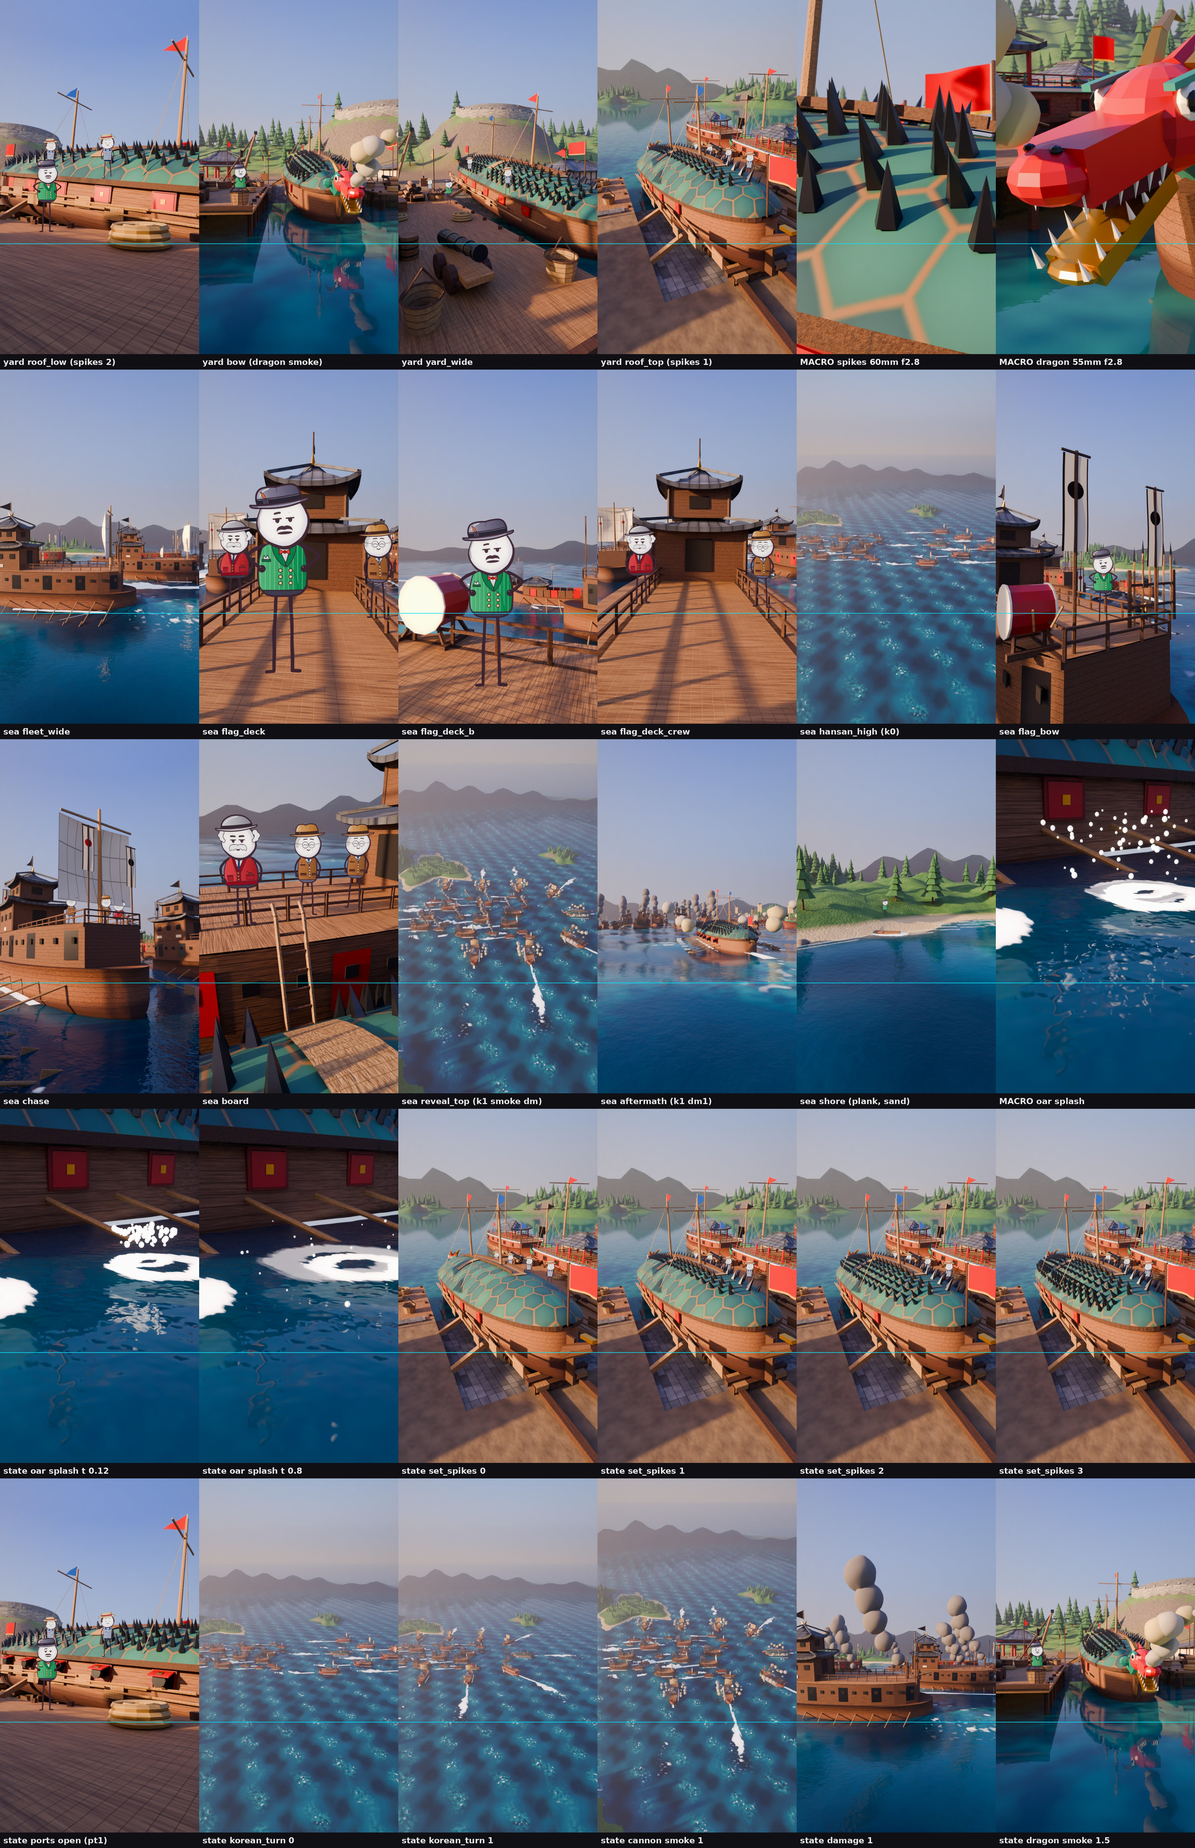
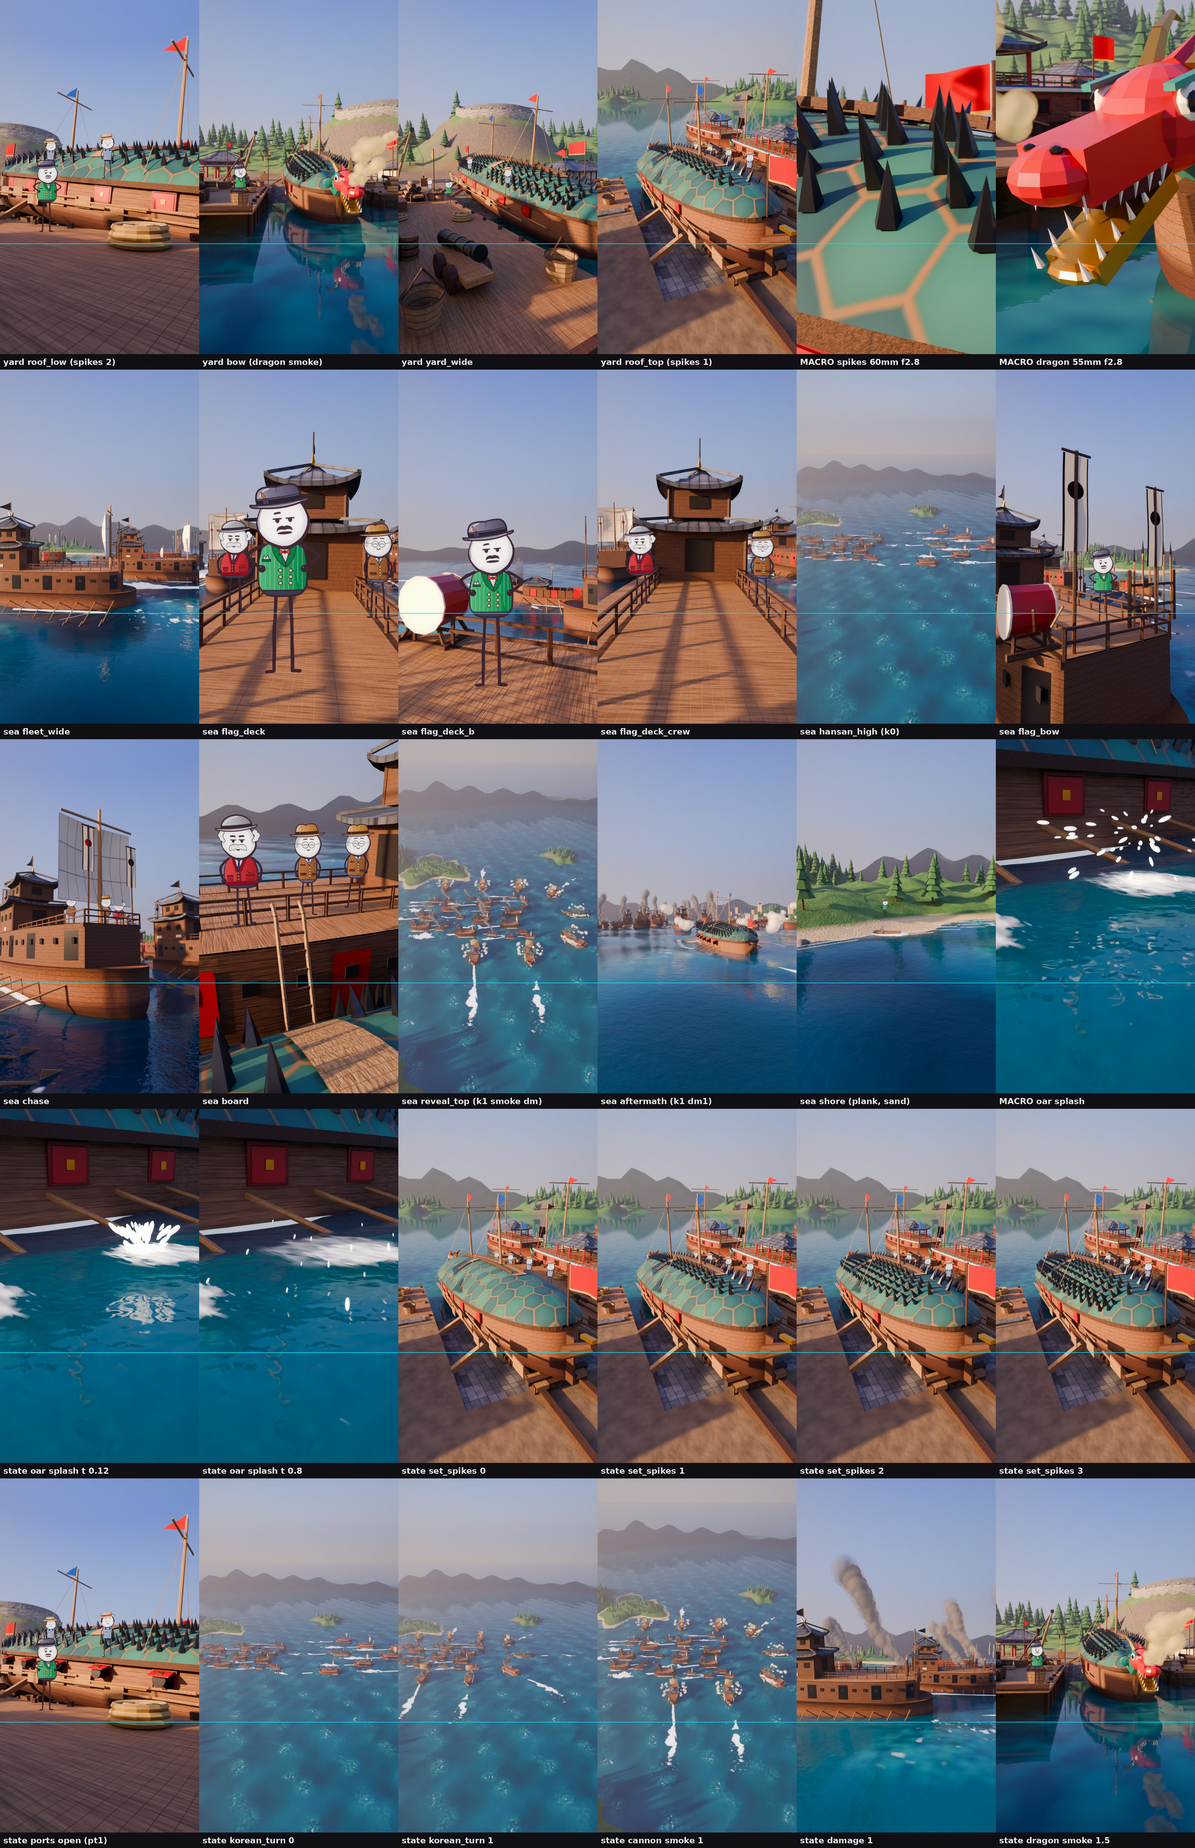
film24: set3d24 accepted (round 3: water without tiling, soft smoke, oar spray)
Claude-Session: https://claude.ai/code/session_017iwyCuV9S7aFVU4rtAyyJm

diff --git a/film/v3/set3d24/joseon.py b/film/v3/set3d24/joseon.py
@@ -126,9 +126,17 @@ def flagmat(key):
     return mat('J_f_' + key, f)
 
 def smoke_mat(name, hexcol, k=1.0):
-    """Cartoon smoke billow: matte, slightly translucent-looking soft white-grey with a warm lit side (principled, rough 1)."""
-    def f(b): b.princ(hexl(hexcol), 1.0, 0.0, None, **{'Subsurface Weight': 0.15})
+    """Soft cartoon smoke: matte, partly transparent, edges fade out with the facing ratio (Layer Weight), a little self light so it never turns muddy. Overlapping lumps merge into one billow."""
+    def f(b):
+        lw = b.n('ShaderNodeLayerWeight'); lw.inputs['Blend'].default_value = 0.5; a = b.math('MULTIPLY', b.math('POWER', b.math('SUBTRACT', 1.0, lw.outputs['Facing']), 1.4), 0.62, clamp=True)
+        b.princ(hexl(hexcol), 1.0, 0.0, None, Alpha=a, **{'Emission Color': (*hexl(hexcol), 1.0), 'Emission Strength': 0.22})
     return mat('J_s_' + name, f)
+
+def cluster(mb, r, m, seed, n=4, spread=0.55):
+    """A billow = n overlapping lumps (merged soft puff)."""
+    rs = rnd(seed)
+    for k in range(n):
+        o = Vector((rs.uniform(-1, 1), rs.uniform(-1, 1), rs.uniform(-0.6, 0.8))) * r * spread; lump(mb, o, r * rs.uniform(0.55, 0.85), m, seed * 7 + k, seg=8, rings=5, rough=0.18)
 
 def tx_sync(): S['tx'] = JX.ensure(verbose=False)
 
@@ -295,7 +303,7 @@ def make_camera(setup, name='cam', scene=None):
     scene.camera = ob; return ob
 
 # ============================================================================= swell (shared by the ocean mesh and the ship / plank drivers)
-SWELL = [(0.34, 34.0, 20.0, 0.9), (0.20, 21.0, 75.0, 1.2), (0.11, 13.0, -35.0, 1.6)]       # A, wavelength, direction deg, angular speed
+SWELL = [(0.30, 41.0, 20.0, 0.85), (0.17, 27.0, 75.0, 1.1), (0.11, 17.3, -35.0, 1.5), (0.07, 11.7, 128.0, 1.8), (0.05, 9.9, -95.0, 2.1)]       # A, wavelength, direction deg, angular speed
 CHOP = [(0.03, 7.3, 52.0, 2.2), (0.02, 4.9, -67.0, 2.8)]
 def swell_z(x, y, t):
     z = 0.0
@@ -304,7 +312,15 @@ def swell_z(x, y, t):
 def swell_expr(xs='x', ys='y', amp=1.0):
     parts = []
     for A, lam, ang, spd in SWELL:
-        k = 2 * math.pi / lam; parts.append('%.4f*sin(%.5f*%s+%.5f*%s-%.4f*frame/%d)' % (A * amp, k * math.cos(math.radians(ang)), xs, k * math.sin(math.radians(ang)), ys, spd, FPS))
+        k = 2 * math.pi / lam; parts.append('%.3f*sin(%.5f*%s+%.5f*%s-%.5f*frame)' % (A * amp, k * math.cos(math.radians(ang)), xs, k * math.sin(math.radians(ang)), ys, spd / FPS))
+    e = '+'.join(parts); assert len(e) < 235, len(e)
+    return e
+
+def swell_expr_at(x0, y0, amp=1.0):
+    """The swell at a fixed world point (x0, y0): a function of the frame only (short driver expression)."""
+    parts = []
+    for A, lam, ang, spd in SWELL:
+        k = 2 * math.pi / lam; parts.append('%.3f*sin(%.4f-%.5f*frame)' % (A * amp, k * (x0 * math.cos(math.radians(ang)) + y0 * math.sin(math.radians(ang))), spd / FPS))
     return '+'.join(parts)
 
 def drive(ob, path, idx, expr, vars_):
@@ -531,9 +547,9 @@ def build_splash(sh, ox, oy, length_out=6.4):
         mb.oface([Vector((-rr, -rr, 0)), Vector((rr, -rr, 0)), Vector((rr, rr, 0)), Vector((-rr, rr, 0))], mt, [(0, 0), (1, 0), (1, 1), (0, 1)], Vector((0, 0, 1)))
         o = mk(mb, 'splash_ring_%d' % k, sh['root'], shadow=False); o.location = (c.x, c.y, 0.2); o.hide_render = True
         drive_at(o, sh['root'], c, 0.26); S['splash']['rings'].append(dict(ob=o, mat=mt, delay=0.0 if k == 0 else 0.28))
-    for k in range(70):
-        mb = MB(); lump(mb, (0, 0, 0), 1.0, M_['drop'], 3000 + k, seg=8, rings=5, rough=0.05); o = mk(mb, 'drop_%d' % k, sh['root'], shadow=False); smooth_round(o, 1); o.hide_render = True
-        a = r.uniform(0, 6.283); sp = r.uniform(0.15, 1.0); S['splash']['drops'].append(dict(ob=o, v=Vector((math.cos(a) * sp, math.sin(a) * sp, r.uniform(2.2, 3.7))), r=r.uniform(0.014, 0.042)))
+    for k in range(46):
+        mb = MB(); ell(mb, (0, 0, 0), 3.4, 1.0, 1.0, M_['drop'], 8, 5); o = mk(mb, 'drop_%d' % k, sh['root'], shadow=False, smooth=True); o.hide_render = True
+        a = r.uniform(0, 6.283); sp = r.uniform(0.15, 1.0); S['splash']['drops'].append(dict(ob=o, v=Vector((math.cos(a) * sp, math.sin(a) * sp, r.uniform(2.2, 3.7))), r=r.uniform(0.012, 0.03)))
 
 def set_oar_splash(t, frame=None):
     """Splash at the dipping blade of the hero oar (macro_oar): t 0 = nothing .. 0..1 = the splash growing and fading (map t = (frame - f0) / 15 for a 15-frame splash). Droplets fly on arcs and shrink, two foam rings
@@ -543,8 +559,9 @@ def set_oar_splash(t, frame=None):
     t = float(t); c = K['c']; vis = 0.0 < t < 1.0
     for d in K['drops']:
         u = max(0.0, min(1.0, t)); p = Vector((c.x + d['v'].x * u * 3.0, c.y + d['v'].y * u * 3.0, 0.2 + d['v'].z * u * 1.15 - 4.6 * u * u)); sc = d['r'] * (1.0 - u) ** 0.4
+        vel = Vector((d['v'].x * 3.0, d['v'].y * 3.0, d['v'].z * 1.15 - 9.2 * u)); d['ob'].rotation_euler = vel.to_track_quat('X', 'Z').to_euler()          # streak along the arc
         d['ob'].location = p; d['ob'].scale = (sc, sc, sc); show(d['ob'], vis and p.z > 0.0, frame)
-        if frame is not None: key_attr(d['ob'], 'location', frame, 'LINEAR'); key_attr(d['ob'], 'scale', frame, 'LINEAR')
+        if frame is not None: key_attr(d['ob'], 'location', frame, 'LINEAR'); key_attr(d['ob'], 'scale', frame, 'LINEAR'); key_attr(d['ob'], 'rotation_euler', frame, 'LINEAR')
     for rg in K['rings']:
         u = max(0.0, min(1.0, (t - rg['delay']) / (1.0 - rg['delay']))); sc = 0.3 + 1.05 * u; rg['ob'].scale = (sc, sc, 1.0); op = (1.0 - u) ** 1.1 if 0.0 < u < 1.0 else 0.0
         nd = rg['mat'].node_tree.nodes['op']; nd.outputs[0].default_value = op; show(rg['ob'], op > 0.001, frame)
@@ -579,7 +596,7 @@ def make_materials():
     M_['dancheong'] = imgmat('dancheong', 'dancheong', 0.45, rough=0.55, bumpk=0.1)
     M_['plaster'] = flat('plaster', '#d9ceb4', 0.9); M_['basket'] = imgmat('basket', 'matting_d', 0.5, rough=0.95, bumpk=0.5)
     M_['drop'] = flat('drop', '#eef6f6', 0.25, 0.0, **{'Emission Color': (0.9, 0.95, 0.97, 1.0), 'Emission Strength': 0.9}); M_['earth'] = flat('earth', '#8a7456', 0.95); M_['spray'] = flat('spray', '#f3f7f6', 0.9)
-    M_['smoke_g'] = smoke_mat('g', '#a8a499'); M_['smoke_d'] = smoke_mat('d', '#74716f'); M_['smoke_y'] = smoke_mat('y', '#b6ab80')
+    M_['smoke_g'] = smoke_mat('g', '#cfccc3'); M_['smoke_d'] = smoke_mat('d', '#6f6c6b'); M_['smoke_y'] = smoke_mat('y', '#b9ad7a')
     M_['flash'] = emit('flash', '#ffcf6a', 40.0); M_['green_p'] = flat('green_p', '#2a7a58', 0.5); M_['blue_p'] = flat('blue_p', '#2a56a8', 0.5)
     for nm, k in (('wake', 'foam_wake'), ('bow', 'foam_bow'), ('ring', 'foam_ring'), ('surf', 'foam_surf')):
         def f(b, k=k):
@@ -599,10 +616,10 @@ def water_mat(name, calm=False):
         col = b.mix(b.rng(patch, 0.35, 0.65), hexl(deep), hexl(mid))
         crest = b.rng(z.outputs['Z'], 0.12 if not calm else 9, 0.45, 0, 1); col = b.mix(b.math('MULTIPLY', crest, b.rng(b.noise(0.5, 1.0, 0.5, c), 0.35, 0.7), clamp=True), col, hexl(shl))
         if not calm:
-            bignz = b.rng(b.noise(0.011, 2.0, 0.5, c), 0.3, 0.7, 0.45, 1.0); col = b.mix(b.math('MULTIPLY', b.rng(z.outputs['Z'], 0.0, -0.42, 0.0, 0.85), bignz), col, hexl('#021d33'))
+            bignz = b.rng(b.noise(0.011, 2.0, 0.5, c), 0.3, 0.7, 0.45, 1.0); far = b.rng(b.n('ShaderNodeCameraData').outputs['View Distance'], 80.0, 260.0, 1.0, 0.3, smooth=True); col = b.mix(b.math('MULTIPLY', b.math('MULTIPLY', b.rng(z.outputs['Z'], 0.0, -0.42, 0.0, 0.85), bignz), far), col, hexl('#021d33'))
             col = b.mix(b.rng(b.noise(0.0035, 2.0, 0.5, c), 0.35, 0.65, 0.0, 0.35), col, hexl('#0d6c74'))
         if not calm:
-            sp = b.rng(b.noise(0.6, 0.0, 0.5, c), 0.68, 0.76); wc = b.math('MULTIPLY', b.rng(z.outputs['Z'], 0.34, 0.50), sp, clamp=True); col = b.mix(wc, col, (0.93, 0.97, 0.96, 1))
+            sp = b.rng(b.noise(0.6, 0.0, 0.5, c), 0.68, 0.76); wc = b.math('MULTIPLY', b.math('MULTIPLY', b.rng(z.outputs['Z'], 0.34, 0.50), sp), b.rng(b.noise(0.018, 2.0, 0.5, c), 0.42, 0.6), clamp=True); col = b.mix(wc, col, (0.93, 0.97, 0.96, 1))
         n1 = b.noise(1.3 if not calm else 0.9, 2.0, 0.5, c); n2 = b.noise(5.0, 1.0, 0.5, c); h = b.math('ADD', n1, b.math('MULTIPLY', n2, 0.35))
         st = 0.42 if not calm else 0.06
         if not calm:
@@ -1303,7 +1320,7 @@ def beach_extras():
                 r = shore(a); q.append(Vector((cx + (r + d0) * math.cos(a), cy + (r + d0) * math.sin(a), 0.0)) - mid); q.append(Vector((cx + (r + d1) * math.cos(a), cy + (r + d1) * math.sin(a), 0.0)) - mid)
             mb.oface([q[0], q[2], q[3], q[1]], M_['surf_f'], [(0, 0), (1, 0), (1, 1), (0, 1)], Vector((0, 0, 1)))
         o = mk(mb, 'surf_%d' % i, shadow=False); o.location = (mid.x, mid.y, 0.12)
-        drive(o, 'location', 2, '0.12+' + swell_expr('(%f)' % mid.x, '(%f)' % mid.y, 0.8), {})
+        drive(o, 'location', 2, '0.12+' + swell_expr_at(mid.x, mid.y, 0.8), {})
     S['shore_a'] = -math.pi / 2
 
 def build_plank():
@@ -1316,7 +1333,7 @@ def build_plank():
     sl = (h(px, py - 1.0) - h(px, py + 1.0)) / 2.0                       # terrain slope along y (toward the sea it falls)
     o = mk(mb, 'plank', shadow=True); o.location = (px, py, z0 + 0.12); o.rotation_euler = (math.atan(sl) * -1.0, 0, math.radians(8)); S['plank'] = o; S['plank_z'] = z0 + 0.12 + 0.11
     mb2 = MB(); mb2.oface([Vector((-4.6, -2.4, 0)), Vector((4.6, -2.4, 0)), Vector((4.6, 2.4, 0)), Vector((-4.6, 2.4, 0))], M_['ring_f'], [(0, 0), (1, 0), (1, 1), (0, 1)], Vector((0, 0, 1)))
-    ro = mk(mb2, 'plank_ring', shadow=False); ro.location = (px, py, 0.12); drive(ro, 'location', 2, '0.14+' + swell_expr('(%f)' % px, '(%f)' % py, 0.8), {})
+    ro = mk(mb2, 'plank_ring', shadow=False); ro.location = (px, py, 0.12); drive(ro, 'location', 2, '0.14+' + swell_expr_at(px, py, 0.8), {})
 
 def _sea_marks():
     mk_ = S['marks']; par = S['parented'] = {}; shs = S['ships']
@@ -1345,8 +1362,10 @@ def build_damage_kit():
         rod(mb, p0, p1, 0.2, M_['wood_l'], seg=6, r1=0.16)
         stump = mk(mb, '%s_stump' % sh['name'], ride); stump.hide_render = True
         mbs = MB(); ph = rs.uniform(0, 6); cx_ = mx - 1.5
-        for k, (zz, rr_) in enumerate(((zb + 3.0, 1.1), (zb + 5.8, 1.6), (zb + 9.0, 2.1), (zb + 12.4, 2.5), (zb + 16.0, 2.7))): lump(mbs, (cx_ - 1.4 * k + 0.6 * math.sin(ph + k), 0.5 * math.sin(ph + 2 * k), zz), rr_, M_['smoke_d'], 300 + i * 9 + k, seg=10, rings=6, rough=0.18)
-        smk = mk(mbs, '%s_dsmoke' % sh['name'], ride, shadow=True); smooth_round(smk, 1); smk.hide_render = True
+        for k in range(10):
+            zz = zb + 2.5 + 1.55 * k; rr_ = 0.9 + 0.2 * k; cluster(mbs, rr_, M_['smoke_d'], 300 + i * 11 + k, 3, 0.55) if False else lump(mbs, (cx_ - 0.9 * k + 0.7 * math.sin(ph + 0.7 * k), 0.55 * math.sin(ph + 1.3 * k), zz), rr_, M_['smoke_d'], 300 + i * 11 + k, seg=9, rings=5, rough=0.2)
+            lump(mbs, (cx_ - 0.9 * k + 0.7 * math.sin(ph + 0.7 * k) + 0.5, 0.55 * math.sin(ph + 1.3 * k) + 0.45, zz - 0.5), rr_ * 0.75, M_['smoke_d'], 800 + i * 11 + k, seg=9, rings=5, rough=0.2)
+        smk = mk(mbs, '%s_dsmoke' % sh['name'], ride, shadow=False); smooth_round(smk, 1); smk.hide_render = True
         hide = [o for o in (bpy.data.objects.get(sh['name'] + '_mast'), bpy.data.objects.get(sh['name'] + '_sail')) if o]
         S['dmg'].append(dict(sh=sh, thr=thr, deg=(3.0 + 5.5 * rs.random()) * (1 if i % 2 else -1), stump=stump, smoke=smk, hide=hide))
 
@@ -1357,7 +1376,7 @@ def build_cannon_kit():
         for gi, g in enumerate(sh['guns']):
             puffs = []
             for k in range(2):
-                mb = MB(); lump(mb, (0, 0, 0), 1.0, M_['smoke_g'] if (gi + k) % 3 else M_['smoke_y'], 900 + gi * 3 + k, seg=9, rings=6, rough=0.2); o = mk(mb, 'puff_%s_%d_%d' % (sh['name'], gi, k), sh['ride'], shadow=True); smooth_round(o, 1); o.hide_render = True; puffs.append(o)
+                mb = MB(); cluster(mb, 1.0, M_['smoke_g'], 900 + gi * 3 + k, 4, 0.6); o = mk(mb, 'puff_%s_%d_%d' % (sh['name'], gi, k), sh['ride'], shadow=False); smooth_round(o, 1); o.hide_render = True; puffs.append(o)
             mb = MB(); lump(mb, (0, 0, 0), 0.7, M_['flash'], 1200 + gi, seg=7, rings=5, rough=0.35); fl = mk(mb, 'flash_%s_%d' % (sh['name'], gi), sh['ride'], shadow=False); fl.hide_render = True
             S['guns'].append(dict(sh=sh, g=g, puffs=puffs, flash=fl, off=rs.uniform(0, 1), per=rs.uniform(1.15, 1.7), size=rs.uniform(0.9, 1.25)))
 
@@ -1394,7 +1413,7 @@ def set_dragon_smoke(level, frame=None, speed=1.0):
     if 'dsmoke' not in sh:
         M_ = S['M']; sh['dsmoke'] = []; r = rnd(31)
         for k in range(10):
-            mb = MB(); lump(mb, (0, 0, 0), 1.0, M_['smoke_y'] if k % 2 else M_['smoke_g'], 1500 + k, seg=10, rings=6, rough=0.2); o = mk(mb, 'dsmoke_%d' % k, sh['ride'], shadow=True); smooth_round(o, 1); o.hide_render = True
+            mb = MB(); cluster(mb, 1.0, M_['smoke_y'], 1500 + k, 5, 0.65); o = mk(mb, 'dsmoke_%d' % k, sh['ride'], shadow=False); smooth_round(o, 1); o.hide_render = True
             sh['dsmoke'].append(dict(ob=o, ph=k / 10 + r.uniform(0, 0.03), size=0.62 + 0.25 * r.random(), drift=Vector((5.0 + r.uniform(-1, 1), r.uniform(-1.4, 1.4), 0.0)), H=4.6 + r.uniform(0, 1.4)))
     m = sh['mouth']
     for b in sh['dsmoke']:
@@ -1522,11 +1541,11 @@ def sea_cams():
 
 PRESETS = dict(
     roof_low=dict(loc='yard', cam='roof_low', state='sp2'), bow=dict(loc='yard', cam='bow', state='sp3,ds1'), yard_wide=dict(loc='yard', cam='yard_wide', state='sp3'), roof_top=dict(loc='yard', cam='roof_top', state='sp1'),
-    macro_spikes=dict(loc='yard', cam='macro_spikes', state='sp2'), macro_dragon=dict(loc='yard', cam='macro_dragon', state='sp3,ds1'),
+    macro_spikes=dict(loc='yard', cam='macro_spikes', state='sp2'), macro_dragon=dict(loc='yard', cam='macro_dragon', state='sp3,ds1', samples=16),
     fleet_wide=dict(loc='sea', cam='fleet_wide', state=''), flag_deck=dict(loc='sea', cam='flag_deck', state=''), flag_deck_b=dict(loc='sea', cam='flag_deck_b', state=''), flag_deck_crew=dict(loc='sea', cam='flag_deck_crew', state=''),
     hansan_high=dict(loc='sea', cam='hansan_high', state=''), flag_bow=dict(loc='sea', cam='flag_bow', state=''), chase=dict(loc='sea', cam='chase', state='s0'),
     board=dict(loc='sea', cam='board', state='sp3,special:board'), reveal_top=dict(loc='sea', cam='reveal_top', state='k1,cs1,dm0.35,sp3,pt1,ds1'),
-    aftermath=dict(loc='sea', cam='aftermath', state='k1,dm1,cs0.35,sp3,pt1'), shore=dict(loc='sea', cam='shore', state=''), macro_oar=dict(loc='sea', cam='macro_oar', state='special:solo,os0.4', samples=14))
+    aftermath=dict(loc='sea', cam='aftermath', state='k1,dm1,cs0.35,sp3,pt1'), shore=dict(loc='sea', cam='shore', state=''), macro_oar=dict(loc='sea', cam='macro_oar', state='special:solo,os0.4', samples=12))
 LOC_PRESETS = dict(yard=[k for k, v in PRESETS.items() if v['loc'] == 'yard'], sea=[k for k, v in PRESETS.items() if v['loc'] == 'sea'])
 CAM_NOTES = dict(
     roof_low='yard: low 3/4 from the east quay at the stern quarter: the turtle ship on its cradles, roof edge workers, Yi in the foreground on the quay (push in)',

diff --git a/film/v3/set3d24/t_anim.py b/film/v3/set3d24/t_anim.py
@@ -118,10 +118,10 @@ else:
     cam = J.make_camera(A['cams']['macro_oar']); check('macro_oar DOF f/2.8 40 mm', cam.data.dof.use_dof and cam.data.lens == 40 and abs(cam.data.dof.aperture_fstop - 2.8) < 1e-6)
     J.clear_keys(); J.set_oar_splash(0.0); K = S['splash']; check('set_oar_splash(0): nothing visible', all(d['ob'].hide_render for d in K['drops']) and all(r['ob'].hide_render for r in K['rings']))
     J.set_oar_splash(0.3); n3 = sum(1 for d in K['drops'] if not d['ob'].hide_render); J.set_oar_splash(0.9); n9 = sum(1 for d in K['drops'] if not d['ob'].hide_render)
-    check('set_oar_splash: %d droplets at t 0.3, fewer / smaller at 0.9 (%d); two foam rings grow and fade' % (n3, n9), n3 >= 40 and n9 < n3 and K['rings'][0]['ob'].scale[0] > 0.3)
+    check('set_oar_splash: %d droplets at t 0.3, fewer / smaller at 0.9 (%d); two foam rings grow and fade' % (n3, n9), n3 >= 25 and n9 < n3 and K['rings'][0]['ob'].scale[0] > 0.3)
     J.set_oar_splash(0.3); s3 = K['rings'][0]['ob'].scale[0]; J.set_oar_splash(0.8); check('foam ring grows with t', K['rings'][0]['ob'].scale[0] > s3)
     J.clear_keys(); [J.set_oar_splash((f - 1) / 15.0, frame=f) for f in range(1, 17)]; at(8); n8 = sum(1 for d in K['drops'] if not d['ob'].hide_render); at(1); n1_ = sum(1 for d in K['drops'] if not d['ob'].hide_render)
-    check('set_oar_splash keyed over 15 frames (frame 1 empty, frame 8 spraying)', n1_ == 0 and n8 >= 30, (n1_, n8)); J.clear_keys(); J.set_oar_splash(0.0)
+    check('set_oar_splash keyed over 15 frames (frame 1 empty, frame 8 spraying)', n1_ == 0 and n8 >= 20, (n1_, n8)); J.clear_keys(); J.set_oar_splash(0.0)
     jb_ = ships['j_board']; check('boarding ladder hooks over the rail of j_board; deck wide enough for the crew spots', bpy.data.objects.get('j_board_ladder') is not None and ships['jflag']['deck_x'][1] - ships['jflag']['deck_x'][0] > 12.0, ships['jflag']['deck_x'])
     J.set_special('board'); t = ships['turtle']['root'].location; jb = ships['j_board']['root'].location; check("set_special('board'): j_board alongside the turtle ship (10.3 D)", abs((t - jb).length - 10.9) < 1.0, round((t - jb).length, 2))
     J.set_special('solo'); check("set_special('solo'): the turtle ship alone", abs(ships['turtle']['root'].location.x - J.SOLO_AT[0]) < 1e-6)

diff --git a/film/v3/set3d24/joseon_tex.py b/film/v3/set3d24/joseon_tex.py
@@ -7,7 +7,7 @@ for p in (os.path.join(PROJ, 'v3', 'set3d9'), os.path.join(PROJ, 'v3', 'set3d8')
     if p not in sys.path: sys.path.insert(0, p)
 import numpy as np
 from PIL import Image, ImageDraw, ImageFilter
-TEX = os.path.join(HERE, 'tex_joseon'); TEX_V = 'j24.5'
+TEX = os.path.join(HERE, 'tex_joseon'); TEX_V = 'j24.6'
 
 def hexc(h):
     h = h.lstrip('#'); return np.array([int(h[i:i + 2], 16) for i in (0, 2, 4)], 'float32') / 255
@@ -110,8 +110,8 @@ def foam(p, out):
     W, H = p['w'], p['h']; rs = np.random.RandomState(p['seed']); yy, xx = np.mgrid[0:H, 0:W].astype('float32'); u = xx / W; v = yy / H
     n = fbm(rs, H, W, 24, 6, 4)
     if p['kind'] == 'ring':
-        r = np.sqrt(((u - 0.5) * 2) ** 2 + ((v - 0.5) * 2) ** 2); a = np.clip(((1 - np.abs(r - 0.62) / 0.34) * 1.2 + n * 0.8 - 0.8) * 7, 0, 1) * np.clip((1 - r) * 8, 0, 1)
-        a = np.maximum(a, np.clip((n - 0.52) * 5, 0, 1) * np.clip((0.7 - r) * 4, 0, 1) * 0.55)       # thin foam and bubbles fill the centre (no donut hole)
+        r = np.sqrt(((u - 0.5) * 2) ** 2 + ((v - 0.5) * 2) ** 2); n2 = fbm(rs, H, W, 9, 9, 4); edge = 0.72 + 0.5 * (n2 - 0.5)
+        a = np.clip((edge - r) * 5, 0, 1) * (0.3 + 0.45 * np.clip((n - 0.3) * 2.4, 0, 1)); a = np.maximum(a, np.clip((n - 0.56) * 6, 0, 1) * np.clip((0.95 - r) * 4, 0, 1) * 0.6) * np.clip((1 - r) * 5, 0, 1)      # soft partly transparent foam patch, irregular edge
     else:
         a = np.clip((0.5 + 0.5 * np.sin((v * 5 + n * 2.2) * 2 * math.pi) - 0.62) * 9, 0, 1) * np.clip(n * 1.6 - 0.25, 0, 1)
     save(np.ones((H, W, 3), 'float32') * (0.93 + 0.07 * n[..., None]), out, a)

diff --git a/film/v3/set3d24/API.md b/film/v3/set3d24/API.md
@@ -129,3 +129,10 @@ Planted soldier cards, nearest to the `flag_deck_crew` camera first (camera at s
 | 3 | `soldier_deck_a` (soldier) | (2.62, 2.2, 5.44) | 8.6 | 99 | 674 | 859 |
 | 4 | `soldier_deck_b` (soldier_b) | (2.22, -2.0, 5.44) | 9.0 | 94 | 652 | 846 |
 (the `commander_deck` stand is (5.9, 0, 5.44), 5.9 D ahead of the tower front.) Farther cards have smaller heads and higher feet, as in true perspective; every chin is above y 880.
+
+## Round 3 notes (API unchanged)
+- Water tiling fixed: the ocean mesh carries 5 incommensurate long swells (41 / 27 / 17.3 / 11.7 / 9.9 D, total amplitude 0.7 D) and no short chop (it aliased against the 2.4 D cells as a grid of blobs from high cameras); fine chop is bump only, fading with view distance;
+  trough darkness and whitecaps are modulated by large-scale noise and fade out beyond 80-260 D. Ships, foam, plank and rings use the same 5 waves (compact driver expressions < 255 chars; `swell_expr_at` for fixed points, `drive_at` for root-local points).
+- Oar splash: ~46 droplet STREAKS (elongated, oriented along their arcs) + two soft partly transparent irregular foam patches that grow and fade (no ring); the oar foam patches at the other blades use the same soft texture.
+- Smoke (cannon grey-white, dragon grey-yellow, damage dark grey): each puff / column is a cluster of overlapping lumps with a soft facing-ratio alpha edge (partly transparent, no shadow), so they merge into billows. Same hooks, same per-frame call rule.
+- Cost under the other worker's load (4-5): smoke-heavy frames reveal_top 106-124 CPU s, fleet_wide_dm1 106, macro_dragon 114 (16 samples), macro_oar 126-128 (12 samples): about 27-32 s on 4 free cores.
